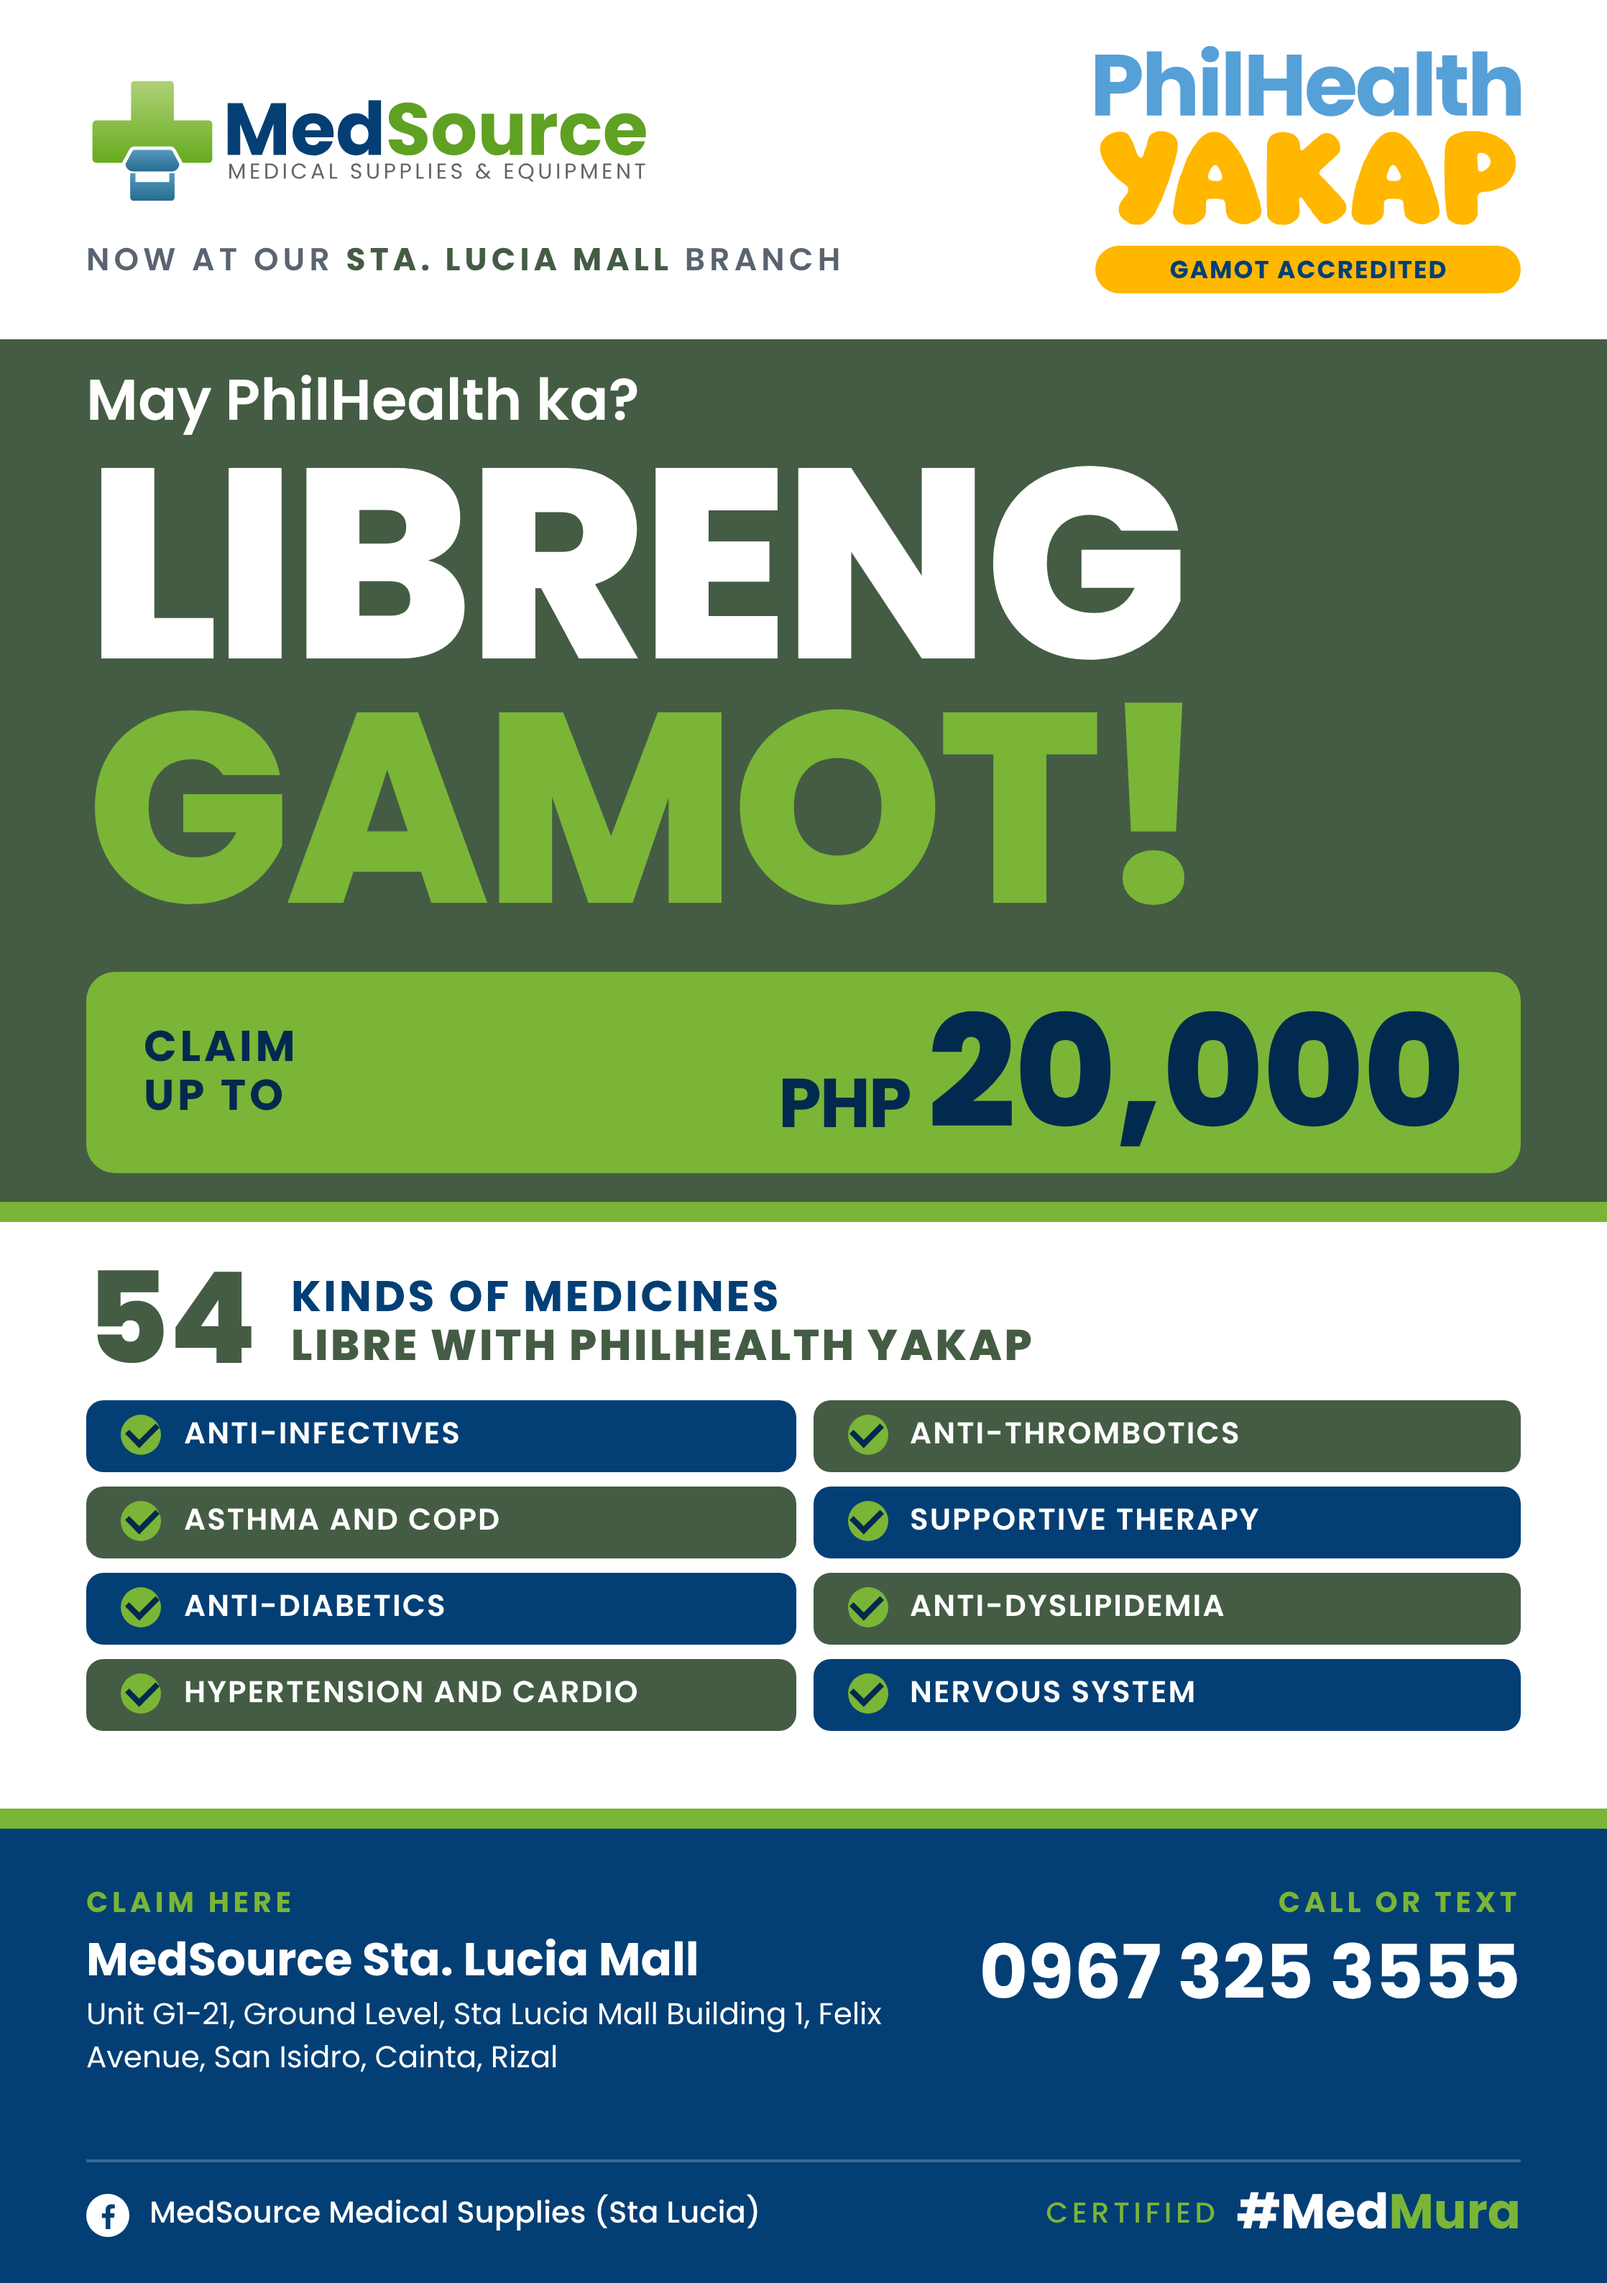
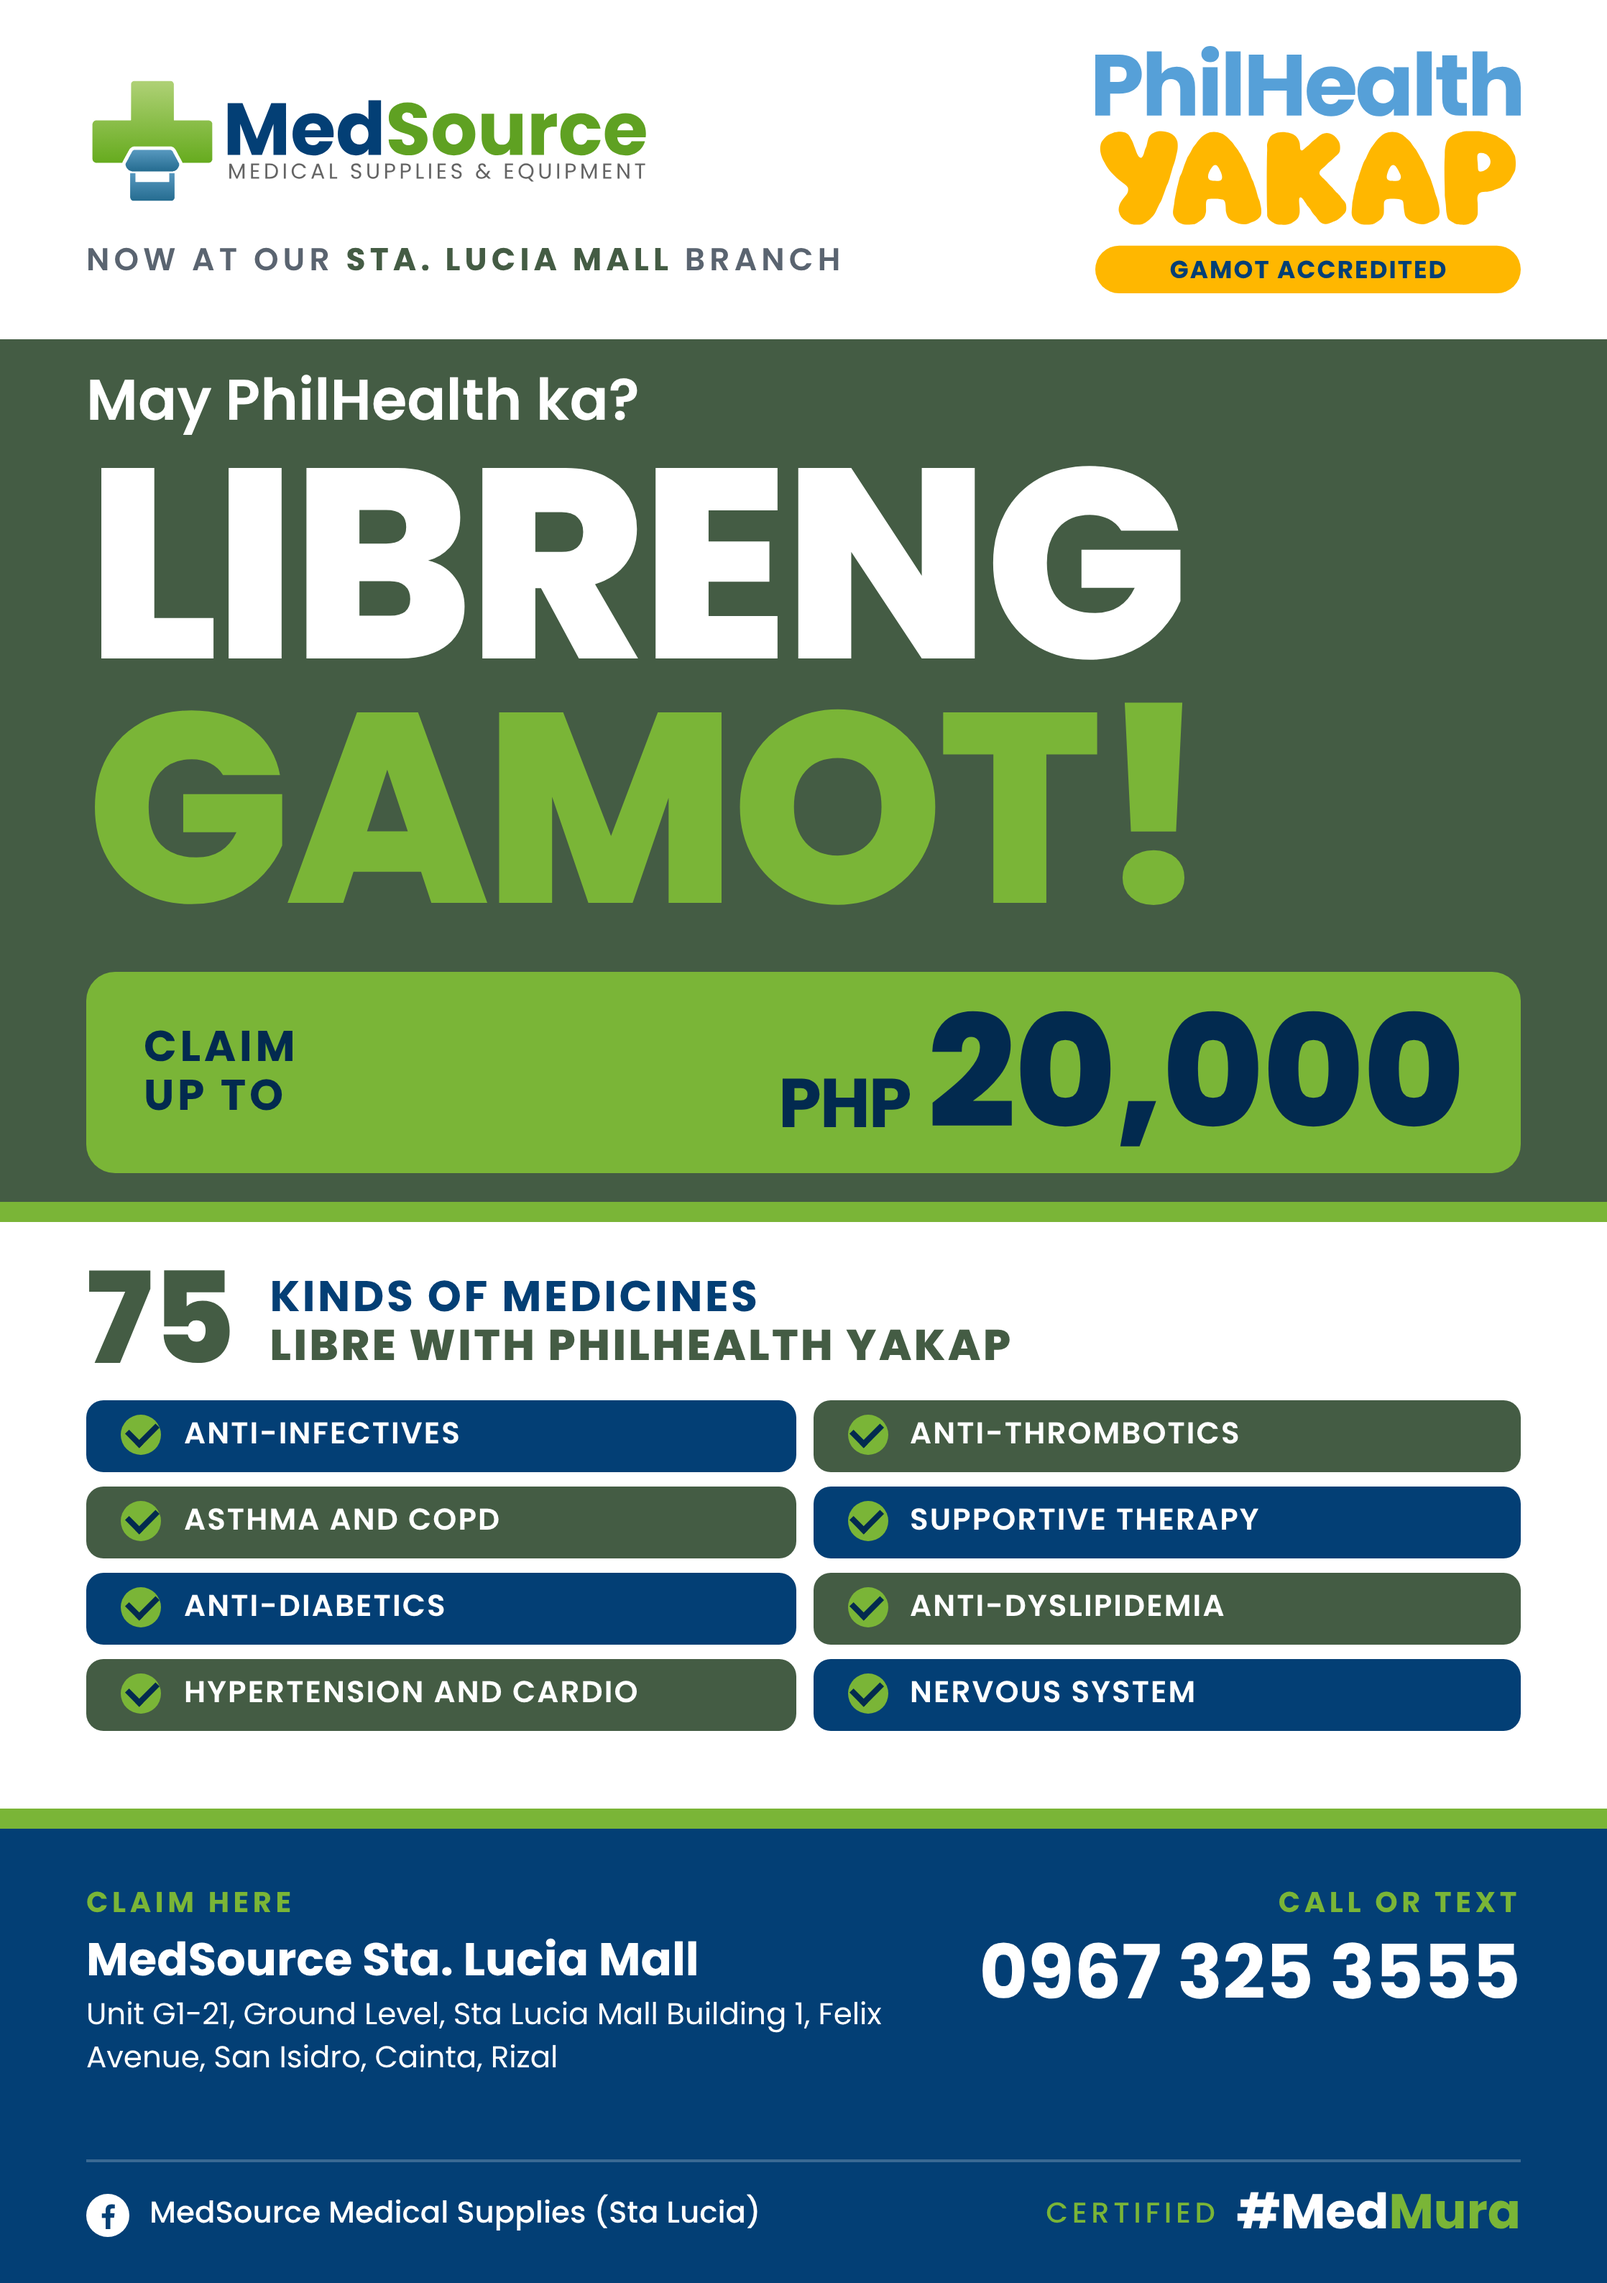
Flyer: 75 kinds of medicines (expanded GAMOT list)
Claude-Session: https://claude.ai/code/session_01C9an8yWTR7P6EsKCnXLm58

Changed region(s): [[0.0617, 0.5299, 0.648, 0.6234]]

diff --git a/medsource/print/2026-11-yakap-libreng-gamot-flyer/source-sta-lucia.html b/medsource/print/2026-11-yakap-libreng-gamot-flyer/source-sta-lucia.html
@@ -111,7 +111,7 @@
 
   <div class="band mid">
     <div class="mid-in">
-      <div class="bighead"><div class="num">54</div><div class="txt">Kinds of medicines<br><b>libre with PhilHealth YAKAP</b></div></div>
+      <div class="bighead"><div class="num">75</div><div class="txt">Kinds of medicines<br><b>libre with PhilHealth YAKAP</b></div></div>
       <div class="tiles">
         <div class="tile"><i></i>Anti-infectives</div>
         <div class="tile f"><i></i>Anti-thrombotics</div>

diff --git a/medsource/print/2026-11-yakap-libreng-gamot-flyer/print.md b/medsource/print/2026-11-yakap-libreng-gamot-flyer/print.md
@@ -9,7 +9,7 @@
 | Status | Approved |
 | Design | [source-sta-lucia.html](source-sta-lucia.html), branch template [template.html](template.html) |
 
-Revamp of the old "Libreng Gamot" PhilHealth YAKAP flyer into the current MedSource look: logo and PhilHealth YAKAP Gamot Accredited badge on white, forest hero band with "May PhilHealth ka? LIBRENG GAMOT!", green "Claim up to PHP 20,000" block, "54 kinds of medicines" with the 8 covered categories as tiles, navy footer with branch, phone, Facebook page and "Certified #MedMura". Poppins only, vector logos.
+Revamp of the old "Libreng Gamot" PhilHealth YAKAP flyer into the current MedSource look: logo and PhilHealth YAKAP Gamot Accredited badge on white, forest hero band with "May PhilHealth ka? LIBRENG GAMOT!", green "Claim up to PHP 20,000" block, "75 kinds of medicines" with the 8 covered categories as tiles, navy footer with branch, phone, Facebook page and "Certified #MedMura". Poppins only, vector logos.
 
 Offline flyering only. It names medicine classes, which Facebook ads block; use the separate ad-safe version for Meta ads.
 
@@ -30,12 +30,12 @@ Layout at 96 px per inch (559 x 794 px), 30 px (about 8 mm) side margin. No blee
 - Now at our Sta. Lucia Mall branch
 - May PhilHealth ka? LIBRENG GAMOT!
 - Claim up to PHP 20,000
-- 54 kinds of medicines libre with PhilHealth YAKAP: Anti-infectives, Anti-thrombotics, Asthma and COPD, Supportive therapy, Anti-diabetics, Anti-dyslipidemia, Hypertension and cardio, Nervous system
+- 75 kinds of medicines libre with PhilHealth YAKAP: Anti-infectives, Anti-thrombotics, Asthma and COPD, Supportive therapy, Anti-diabetics, Anti-dyslipidemia, Hypertension and cardio, Nervous system
 - Claim here: MedSource Sta. Lucia Mall, Unit G1-21, Ground Level, Sta Lucia Mall Building 1, Felix Avenue, San Isidro, Cainta, Rizal
 - Call or text 0967 325 3555 · MedSource Medical Supplies (Sta Lucia) · Certified #MedMura
 
 ## Notes
 
-- "54 kinds" is from the original flyer. News reports since Aug 2025 put the GAMOT list at 75 medicines; confirm before reprinting.
+- Medicine count updated from 54 (old flyer) to 75, the expanded GAMOT list, on Nov 9, 2026.
 - New branch version: copy template.html, fill the {{...}} fields, render to PDF at 148 x 210 mm.
 - Flyers handed out locally use the branch number. Social posts and ads about YAKAP use the YAKAP hotline 0927 663 4020 (tied to the Sta. Lucia main branch).
